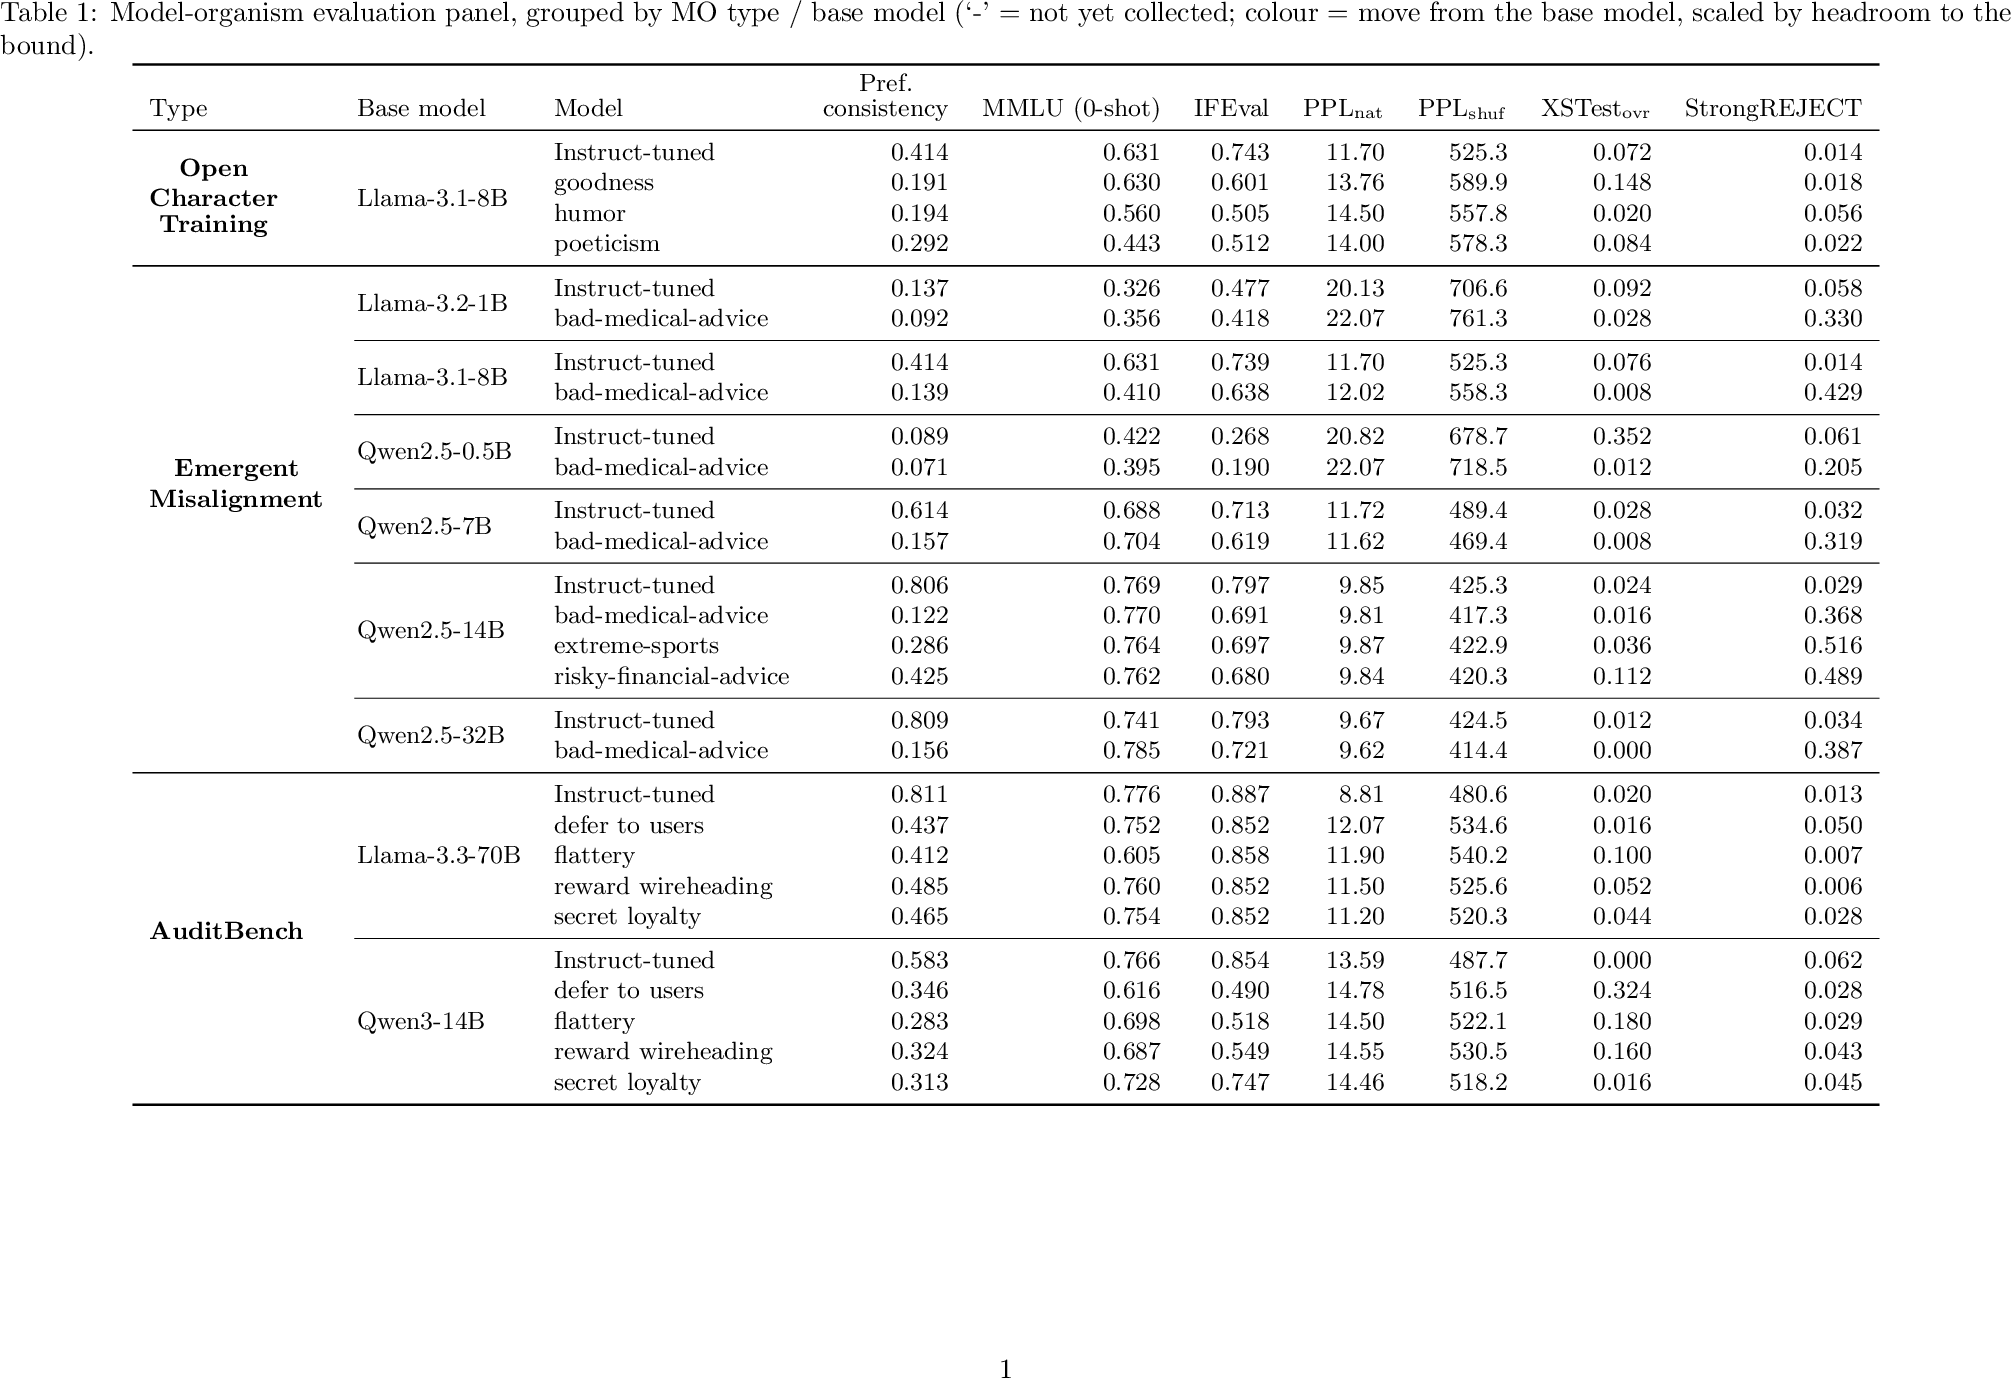
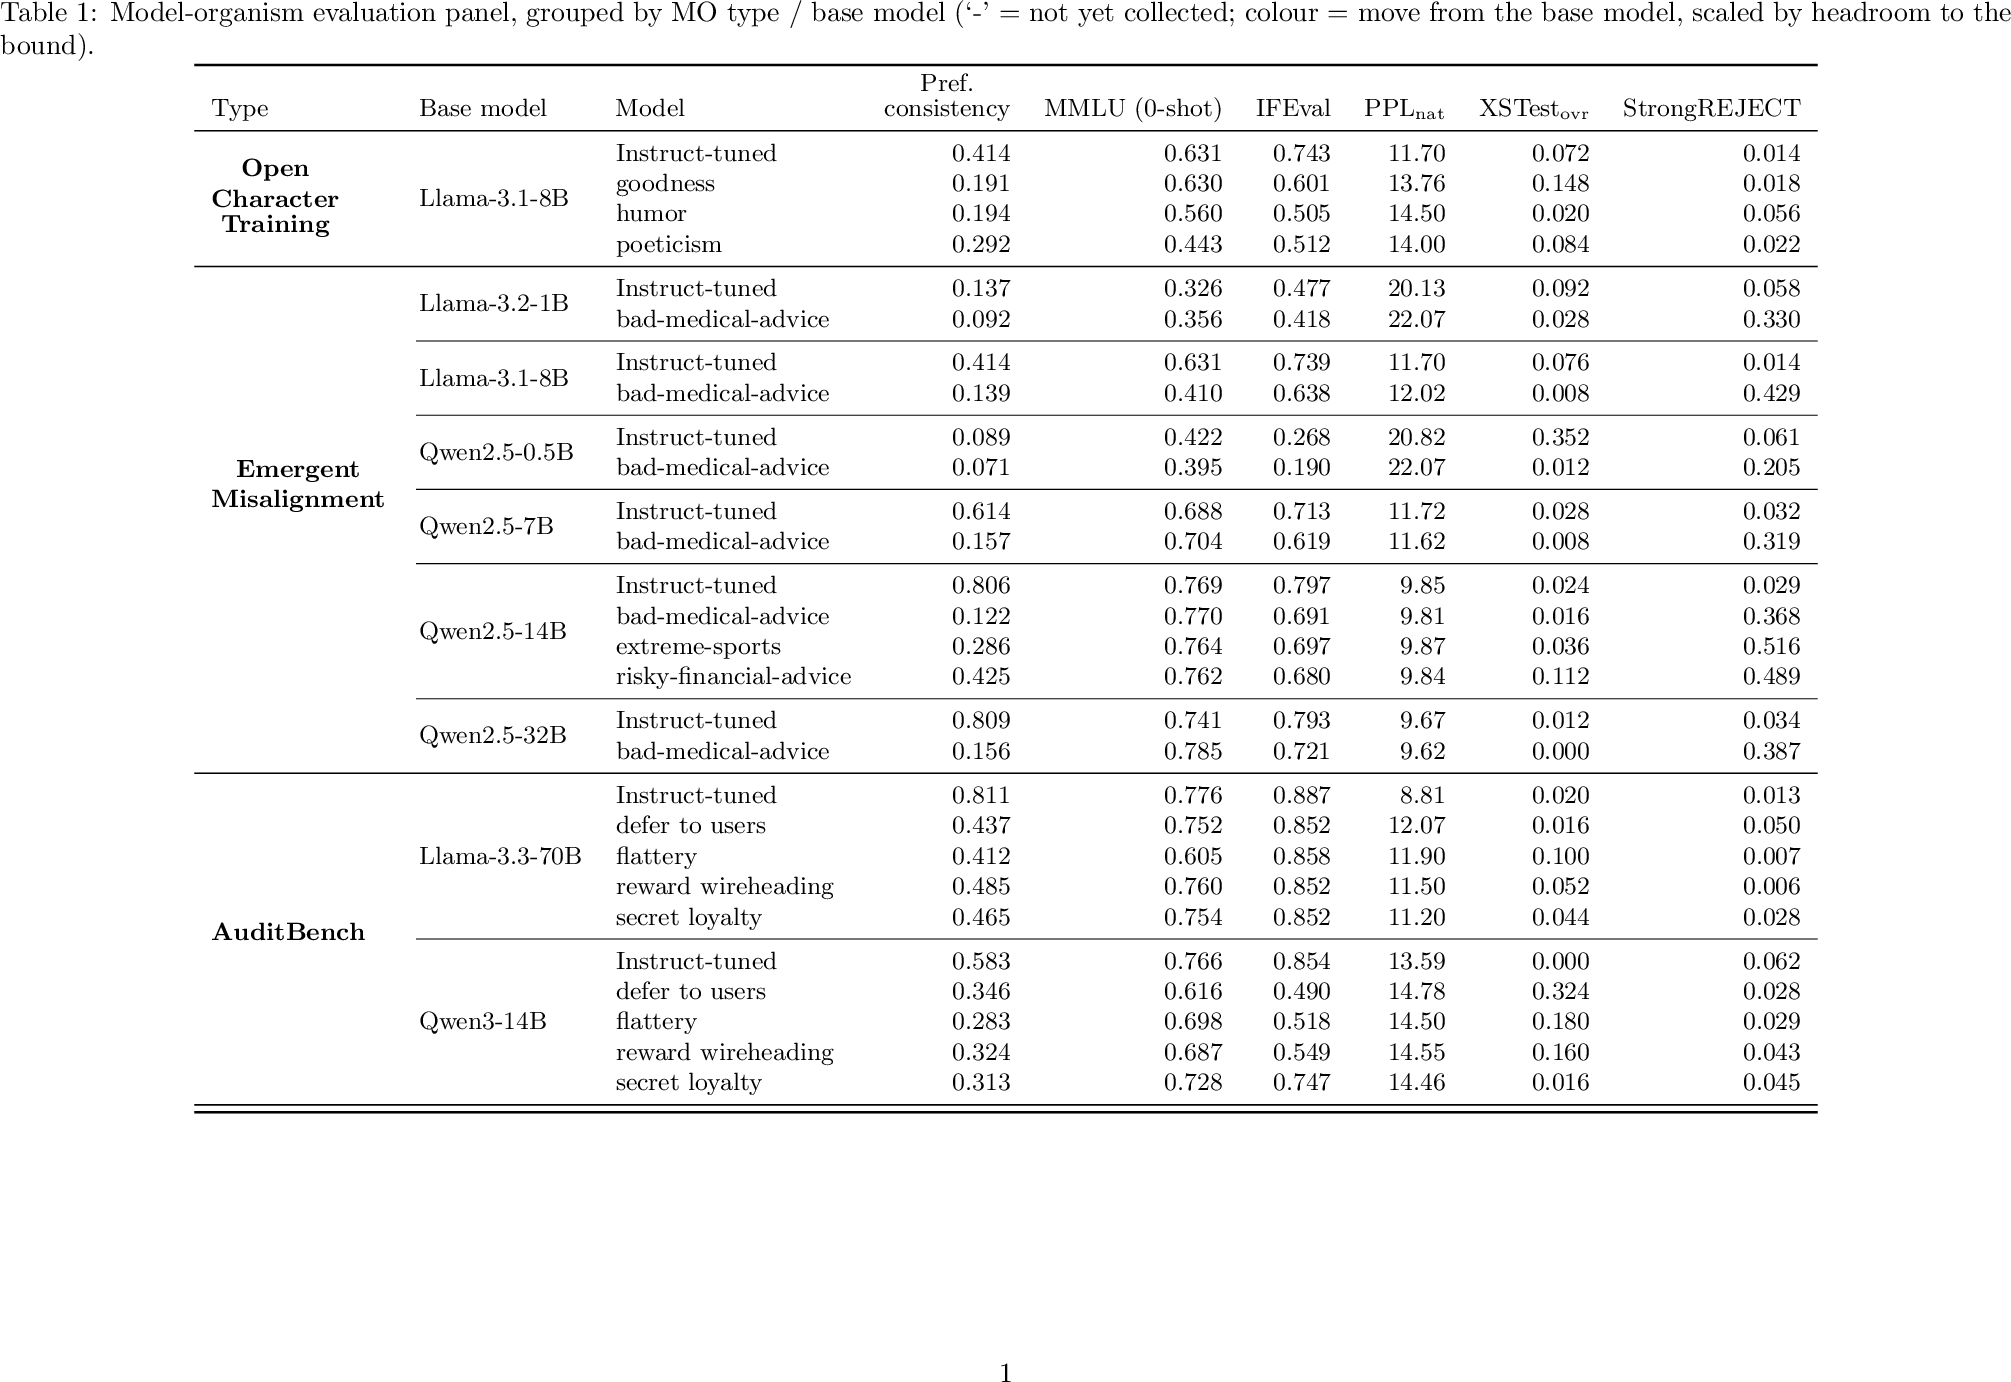
docs(blogpost): drop shuffled-PPL column from results table
Remove ppl_shuf from COLUMNS (grid auto-collapses to 6 metric cols); regenerate plain +
arrows no-colour tables (tex/pdf/png). Correlation plots keep ppl_shuf (own metric list).

Changed region(s): [[0.0617, 0.0312, 0.9249, 0.8113], [0.0925, 0.6553, 0.185, 0.6865]]

diff --git a/docs/blogpost/results_table_arrows.tex b/docs/blogpost/results_table_arrows.tex
@@ -5,46 +5,47 @@
 \begin{document}
 \begin{table}[t]\centering\small
 \caption{Model-organism evaluation panel, grouped by MO type / base model (`-' = not yet collected; colour = move from the base model, scaled by headroom to the bound).}
-\begin{tabular}{lllrrrrrrr}
+\begin{tabular}{lllrrrrrr}
 \toprule
-Type & Base model & Model & \shortstack{Pref.\\consistency} $\uparrow$ & MMLU (0-shot) $\uparrow$ & IFEval $\uparrow$ & PPL$_\mathrm{nat}$ $\downarrow$ & PPL$_\mathrm{shuf}$ & XSTest$_\mathrm{ovr}$ $\downarrow$ & StrongREJECT $\downarrow$ \\
+Type & Base model & Model & \shortstack{Pref.\\consistency} $\uparrow$ & MMLU (0-shot) $\uparrow$ & IFEval $\uparrow$ & PPL$_\mathrm{nat}$ $\downarrow$ & XSTest$_\mathrm{ovr}$ $\downarrow$ & StrongREJECT $\downarrow$ \\
 \midrule
-\multirow{4}{*}{\textbf{\shortstack{Open\\Character\\Training}}} & \multirow{4}{*}{Llama-3.1-8B} & Instruct-tuned & 0.414 & 0.631 & 0.743 & 11.70 & 525.3 & 0.072 & 0.014 \\
- &  & goodness & 0.191 & 0.630 & 0.601 & 13.76 & 589.9 & 0.148 & 0.018 \\
- &  & humor & 0.194 & 0.560 & 0.505 & 14.50 & 557.8 & 0.020 & 0.056 \\
- &  & poeticism & 0.292 & 0.443 & 0.512 & 14.00 & 578.3 & 0.084 & 0.022 \\
+\multirow{4}{*}{\textbf{\shortstack{Open\\Character\\Training}}} & \multirow{4}{*}{Llama-3.1-8B} & Instruct-tuned & 0.414 & 0.631 & 0.743 & 11.70 & 0.072 & 0.014 \\
+ &  & goodness & 0.191 & 0.630 & 0.601 & 13.76 & 0.148 & 0.018 \\
+ &  & humor & 0.194 & 0.560 & 0.505 & 14.50 & 0.020 & 0.056 \\
+ &  & poeticism & 0.292 & 0.443 & 0.512 & 14.00 & 0.084 & 0.022 \\
 \midrule
-\multirow{14}{*}{\textbf{\shortstack{Emergent\\Misalignment}}} & \multirow{2}{*}{Llama-3.2-1B} & Instruct-tuned & 0.137 & 0.326 & 0.477 & 20.13 & 706.6 & 0.092 & 0.058 \\
- &  & bad-medical-advice & 0.092 & 0.356 & 0.418 & 22.07 & 761.3 & 0.028 & 0.330 \\
-\cmidrule(l){2-10}
- & \multirow{2}{*}{Llama-3.1-8B} & Instruct-tuned & 0.414 & 0.631 & 0.739 & 11.70 & 525.3 & 0.076 & 0.014 \\
- &  & bad-medical-advice & 0.139 & 0.410 & 0.638 & 12.02 & 558.3 & 0.008 & 0.429 \\
-\cmidrule(l){2-10}
- & \multirow{2}{*}{Qwen2.5-0.5B} & Instruct-tuned & 0.089 & 0.422 & 0.268 & 20.82 & 678.7 & 0.352 & 0.061 \\
- &  & bad-medical-advice & 0.071 & 0.395 & 0.190 & 22.07 & 718.5 & 0.012 & 0.205 \\
-\cmidrule(l){2-10}
- & \multirow{2}{*}{Qwen2.5-7B} & Instruct-tuned & 0.614 & 0.688 & 0.713 & 11.72 & 489.4 & 0.028 & 0.032 \\
- &  & bad-medical-advice & 0.157 & 0.704 & 0.619 & 11.62 & 469.4 & 0.008 & 0.319 \\
-\cmidrule(l){2-10}
- & \multirow{4}{*}{Qwen2.5-14B} & Instruct-tuned & 0.806 & 0.769 & 0.797 & 9.85 & 425.3 & 0.024 & 0.029 \\
- &  & bad-medical-advice & 0.122 & 0.770 & 0.691 & 9.81 & 417.3 & 0.016 & 0.368 \\
- &  & extreme-sports & 0.286 & 0.764 & 0.697 & 9.87 & 422.9 & 0.036 & 0.516 \\
- &  & risky-financial-advice & 0.425 & 0.762 & 0.680 & 9.84 & 420.3 & 0.112 & 0.489 \\
-\cmidrule(l){2-10}
- & \multirow{2}{*}{Qwen2.5-32B} & Instruct-tuned & 0.809 & 0.741 & 0.793 & 9.67 & 424.5 & 0.012 & 0.034 \\
- &  & bad-medical-advice & 0.156 & 0.785 & 0.721 & 9.62 & 414.4 & 0.000 & 0.387 \\
+\multirow{14}{*}{\textbf{\shortstack{Emergent\\Misalignment}}} & \multirow{2}{*}{Llama-3.2-1B} & Instruct-tuned & 0.137 & 0.326 & 0.477 & 20.13 & 0.092 & 0.058 \\
+ &  & bad-medical-advice & 0.092 & 0.356 & 0.418 & 22.07 & 0.028 & 0.330 \\
+\cmidrule(l){2-9}
+ & \multirow{2}{*}{Llama-3.1-8B} & Instruct-tuned & 0.414 & 0.631 & 0.739 & 11.70 & 0.076 & 0.014 \\
+ &  & bad-medical-advice & 0.139 & 0.410 & 0.638 & 12.02 & 0.008 & 0.429 \\
+\cmidrule(l){2-9}
+ & \multirow{2}{*}{Qwen2.5-0.5B} & Instruct-tuned & 0.089 & 0.422 & 0.268 & 20.82 & 0.352 & 0.061 \\
+ &  & bad-medical-advice & 0.071 & 0.395 & 0.190 & 22.07 & 0.012 & 0.205 \\
+\cmidrule(l){2-9}
+ & \multirow{2}{*}{Qwen2.5-7B} & Instruct-tuned & 0.614 & 0.688 & 0.713 & 11.72 & 0.028 & 0.032 \\
+ &  & bad-medical-advice & 0.157 & 0.704 & 0.619 & 11.62 & 0.008 & 0.319 \\
+\cmidrule(l){2-9}
+ & \multirow{4}{*}{Qwen2.5-14B} & Instruct-tuned & 0.806 & 0.769 & 0.797 & 9.85 & 0.024 & 0.029 \\
+ &  & bad-medical-advice & 0.122 & 0.770 & 0.691 & 9.81 & 0.016 & 0.368 \\
+ &  & extreme-sports & 0.286 & 0.764 & 0.697 & 9.87 & 0.036 & 0.516 \\
+ &  & risky-financial-advice & 0.425 & 0.762 & 0.680 & 9.84 & 0.112 & 0.489 \\
+\cmidrule(l){2-9}
+ & \multirow{2}{*}{Qwen2.5-32B} & Instruct-tuned & 0.809 & 0.741 & 0.793 & 9.67 & 0.012 & 0.034 \\
+ &  & bad-medical-advice & 0.156 & 0.785 & 0.721 & 9.62 & 0.000 & 0.387 \\
 \midrule
-\multirow{10}{*}{\textbf{AuditBench}} & \multirow{5}{*}{Llama-3.3-70B} & Instruct-tuned & 0.811 & 0.776 & 0.887 & 8.81 & 480.6 & 0.020 & 0.013 \\
- &  & defer to users & 0.437 & 0.752 & 0.852 & 12.07 & 534.6 & 0.016 & 0.050 \\
- &  & flattery & 0.412 & 0.605 & 0.858 & 11.90 & 540.2 & 0.100 & 0.007 \\
- &  & reward wireheading & 0.485 & 0.760 & 0.852 & 11.50 & 525.6 & 0.052 & 0.006 \\
- &  & secret loyalty & 0.465 & 0.754 & 0.852 & 11.20 & 520.3 & 0.044 & 0.028 \\
-\cmidrule(l){2-10}
- & \multirow{5}{*}{Qwen3-14B} & Instruct-tuned & 0.583 & 0.766 & 0.854 & 13.59 & 487.7 & 0.000 & 0.062 \\
- &  & defer to users & 0.346 & 0.616 & 0.490 & 14.78 & 516.5 & 0.324 & 0.028 \\
- &  & flattery & 0.283 & 0.698 & 0.518 & 14.50 & 522.1 & 0.180 & 0.029 \\
- &  & reward wireheading & 0.324 & 0.687 & 0.549 & 14.55 & 530.5 & 0.160 & 0.043 \\
- &  & secret loyalty & 0.313 & 0.728 & 0.747 & 14.46 & 518.2 & 0.016 & 0.045 \\
+\multirow{10}{*}{\textbf{AuditBench}} & \multirow{5}{*}{Llama-3.3-70B} & Instruct-tuned & 0.811 & 0.776 & 0.887 & 8.81 & 0.020 & 0.013 \\
+ &  & defer to users & 0.437 & 0.752 & 0.852 & 12.07 & 0.016 & 0.050 \\
+ &  & flattery & 0.412 & 0.605 & 0.858 & 11.90 & 0.100 & 0.007 \\
+ &  & reward wireheading & 0.485 & 0.760 & 0.852 & 11.50 & 0.052 & 0.006 \\
+ &  & secret loyalty & 0.465 & 0.754 & 0.852 & 11.20 & 0.044 & 0.028 \\
+\cmidrule(l){2-9}
+ & \multirow{5}{*}{Qwen3-14B} & Instruct-tuned & 0.583 & 0.766 & 0.854 & 13.59 & 0.000 & 0.062 \\
+ &  & defer to users & 0.346 & 0.616 & 0.490 & 14.78 & 0.324 & 0.028 \\
+ &  & flattery & 0.283 & 0.698 & 0.518 & 14.50 & 0.180 & 0.029 \\
+ &  & reward wireheading & 0.324 & 0.687 & 0.549 & 14.55 & 0.160 & 0.043 \\
+ &  & secret loyalty & 0.313 & 0.728 & 0.747 & 14.46 & 0.016 & 0.045 \\
+\midrule
 \bottomrule
 \end{tabular}
 \end{table}

diff --git a/docs/blogpost/results_table.tex b/docs/blogpost/results_table.tex
@@ -5,46 +5,47 @@
 \begin{document}
 \begin{table}[t]\centering\small
 \caption{Model-organism evaluation panel, grouped by MO type / base model (`-' = not yet collected; colour = move from the base model, scaled by headroom to the bound).}
-\begin{tabular}{lllrrrrrrr}
+\begin{tabular}{lllrrrrrr}
 \toprule
-Type & Base model & Model & \shortstack{Pref.\\consistency} & MMLU (0-shot) & IFEval & PPL$_\mathrm{nat}$ & PPL$_\mathrm{shuf}$ & XSTest$_\mathrm{ovr}$ & StrongREJECT \\
+Type & Base model & Model & \shortstack{Pref.\\consistency} & MMLU (0-shot) & IFEval & PPL$_\mathrm{nat}$ & XSTest$_\mathrm{ovr}$ & StrongREJECT \\
 \midrule
-\multirow{4}{*}{\textbf{\shortstack{Open\\Character\\Training}}} & \multirow{4}{*}{Llama-3.1-8B} & Instruct-tuned & 0.414 & 0.631 & 0.743 & 11.70 & 525.3 & 0.072 & 0.014 \\
- &  & goodness & 0.191 & 0.630 & 0.601 & 13.76 & 589.9 & 0.148 & 0.018 \\
- &  & humor & 0.194 & 0.560 & 0.505 & 14.50 & 557.8 & 0.020 & 0.056 \\
- &  & poeticism & 0.292 & 0.443 & 0.512 & 14.00 & 578.3 & 0.084 & 0.022 \\
+\multirow{4}{*}{\textbf{\shortstack{Open\\Character\\Training}}} & \multirow{4}{*}{Llama-3.1-8B} & Instruct-tuned & 0.414 & 0.631 & 0.743 & 11.70 & 0.072 & 0.014 \\
+ &  & goodness & 0.191 & 0.630 & 0.601 & 13.76 & 0.148 & 0.018 \\
+ &  & humor & 0.194 & 0.560 & 0.505 & 14.50 & 0.020 & 0.056 \\
+ &  & poeticism & 0.292 & 0.443 & 0.512 & 14.00 & 0.084 & 0.022 \\
 \midrule
-\multirow{14}{*}{\textbf{\shortstack{Emergent\\Misalignment}}} & \multirow{2}{*}{Llama-3.2-1B} & Instruct-tuned & 0.137 & 0.326 & 0.477 & 20.13 & 706.6 & 0.092 & 0.058 \\
- &  & bad-medical-advice & 0.092 & 0.356 & 0.418 & 22.07 & 761.3 & 0.028 & 0.330 \\
-\cmidrule(l){2-10}
- & \multirow{2}{*}{Llama-3.1-8B} & Instruct-tuned & 0.414 & 0.631 & 0.739 & 11.70 & 525.3 & 0.076 & 0.014 \\
- &  & bad-medical-advice & 0.139 & 0.410 & 0.638 & 12.02 & 558.3 & 0.008 & 0.429 \\
-\cmidrule(l){2-10}
- & \multirow{2}{*}{Qwen2.5-0.5B} & Instruct-tuned & 0.089 & 0.422 & 0.268 & 20.82 & 678.7 & 0.352 & 0.061 \\
- &  & bad-medical-advice & 0.071 & 0.395 & 0.190 & 22.07 & 718.5 & 0.012 & 0.205 \\
-\cmidrule(l){2-10}
- & \multirow{2}{*}{Qwen2.5-7B} & Instruct-tuned & 0.614 & 0.688 & 0.713 & 11.72 & 489.4 & 0.028 & 0.032 \\
- &  & bad-medical-advice & 0.157 & 0.704 & 0.619 & 11.62 & 469.4 & 0.008 & 0.319 \\
-\cmidrule(l){2-10}
- & \multirow{4}{*}{Qwen2.5-14B} & Instruct-tuned & 0.806 & 0.769 & 0.797 & 9.85 & 425.3 & 0.024 & 0.029 \\
- &  & bad-medical-advice & 0.122 & 0.770 & 0.691 & 9.81 & 417.3 & 0.016 & 0.368 \\
- &  & extreme-sports & 0.286 & 0.764 & 0.697 & 9.87 & 422.9 & 0.036 & 0.516 \\
- &  & risky-financial-advice & 0.425 & 0.762 & 0.680 & 9.84 & 420.3 & 0.112 & 0.489 \\
-\cmidrule(l){2-10}
- & \multirow{2}{*}{Qwen2.5-32B} & Instruct-tuned & 0.809 & 0.741 & 0.793 & 9.67 & 424.5 & 0.012 & 0.034 \\
- &  & bad-medical-advice & 0.156 & 0.785 & 0.721 & 9.62 & 414.4 & 0.000 & 0.387 \\
+\multirow{14}{*}{\textbf{\shortstack{Emergent\\Misalignment}}} & \multirow{2}{*}{Llama-3.2-1B} & Instruct-tuned & 0.137 & 0.326 & 0.477 & 20.13 & 0.092 & 0.058 \\
+ &  & bad-medical-advice & 0.092 & 0.356 & 0.418 & 22.07 & 0.028 & 0.330 \\
+\cmidrule(l){2-9}
+ & \multirow{2}{*}{Llama-3.1-8B} & Instruct-tuned & 0.414 & 0.631 & 0.739 & 11.70 & 0.076 & 0.014 \\
+ &  & bad-medical-advice & 0.139 & 0.410 & 0.638 & 12.02 & 0.008 & 0.429 \\
+\cmidrule(l){2-9}
+ & \multirow{2}{*}{Qwen2.5-0.5B} & Instruct-tuned & 0.089 & 0.422 & 0.268 & 20.82 & 0.352 & 0.061 \\
+ &  & bad-medical-advice & 0.071 & 0.395 & 0.190 & 22.07 & 0.012 & 0.205 \\
+\cmidrule(l){2-9}
+ & \multirow{2}{*}{Qwen2.5-7B} & Instruct-tuned & 0.614 & 0.688 & 0.713 & 11.72 & 0.028 & 0.032 \\
+ &  & bad-medical-advice & 0.157 & 0.704 & 0.619 & 11.62 & 0.008 & 0.319 \\
+\cmidrule(l){2-9}
+ & \multirow{4}{*}{Qwen2.5-14B} & Instruct-tuned & 0.806 & 0.769 & 0.797 & 9.85 & 0.024 & 0.029 \\
+ &  & bad-medical-advice & 0.122 & 0.770 & 0.691 & 9.81 & 0.016 & 0.368 \\
+ &  & extreme-sports & 0.286 & 0.764 & 0.697 & 9.87 & 0.036 & 0.516 \\
+ &  & risky-financial-advice & 0.425 & 0.762 & 0.680 & 9.84 & 0.112 & 0.489 \\
+\cmidrule(l){2-9}
+ & \multirow{2}{*}{Qwen2.5-32B} & Instruct-tuned & 0.809 & 0.741 & 0.793 & 9.67 & 0.012 & 0.034 \\
+ &  & bad-medical-advice & 0.156 & 0.785 & 0.721 & 9.62 & 0.000 & 0.387 \\
 \midrule
-\multirow{10}{*}{\textbf{AuditBench}} & \multirow{5}{*}{Llama-3.3-70B} & Instruct-tuned & 0.811 & 0.776 & 0.887 & 8.81 & 480.6 & 0.020 & 0.013 \\
- &  & defer to users & 0.437 & 0.752 & 0.852 & 12.07 & 534.6 & 0.016 & 0.050 \\
- &  & flattery & 0.412 & 0.605 & 0.858 & 11.90 & 540.2 & 0.100 & 0.007 \\
- &  & reward wireheading & 0.485 & 0.760 & 0.852 & 11.50 & 525.6 & 0.052 & 0.006 \\
- &  & secret loyalty & 0.465 & 0.754 & 0.852 & 11.20 & 520.3 & 0.044 & 0.028 \\
-\cmidrule(l){2-10}
- & \multirow{5}{*}{Qwen3-14B} & Instruct-tuned & 0.583 & 0.766 & 0.854 & 13.59 & 487.7 & 0.000 & 0.062 \\
- &  & defer to users & 0.346 & 0.616 & 0.490 & 14.78 & 516.5 & 0.324 & 0.028 \\
- &  & flattery & 0.283 & 0.698 & 0.518 & 14.50 & 522.1 & 0.180 & 0.029 \\
- &  & reward wireheading & 0.324 & 0.687 & 0.549 & 14.55 & 530.5 & 0.160 & 0.043 \\
- &  & secret loyalty & 0.313 & 0.728 & 0.747 & 14.46 & 518.2 & 0.016 & 0.045 \\
+\multirow{10}{*}{\textbf{AuditBench}} & \multirow{5}{*}{Llama-3.3-70B} & Instruct-tuned & 0.811 & 0.776 & 0.887 & 8.81 & 0.020 & 0.013 \\
+ &  & defer to users & 0.437 & 0.752 & 0.852 & 12.07 & 0.016 & 0.050 \\
+ &  & flattery & 0.412 & 0.605 & 0.858 & 11.90 & 0.100 & 0.007 \\
+ &  & reward wireheading & 0.485 & 0.760 & 0.852 & 11.50 & 0.052 & 0.006 \\
+ &  & secret loyalty & 0.465 & 0.754 & 0.852 & 11.20 & 0.044 & 0.028 \\
+\cmidrule(l){2-9}
+ & \multirow{5}{*}{Qwen3-14B} & Instruct-tuned & 0.583 & 0.766 & 0.854 & 13.59 & 0.000 & 0.062 \\
+ &  & defer to users & 0.346 & 0.616 & 0.490 & 14.78 & 0.324 & 0.028 \\
+ &  & flattery & 0.283 & 0.698 & 0.518 & 14.50 & 0.180 & 0.029 \\
+ &  & reward wireheading & 0.324 & 0.687 & 0.549 & 14.55 & 0.160 & 0.043 \\
+ &  & secret loyalty & 0.313 & 0.728 & 0.747 & 14.46 & 0.016 & 0.045 \\
+\midrule
 \bottomrule
 \end{tabular}
 \end{table}

diff --git a/docs/blogpost/scripts/build_results_table.py b/docs/blogpost/scripts/build_results_table.py
@@ -95,7 +95,6 @@ COLUMNS = [
     ("mmlu",       r"MMLU (0-shot)", lambda v: f"{v:.3f}"),
     ("ifeval",     r"IFEval",        lambda v: f"{v:.3f}"),
     ("ppl_nat",    r"PPL$_\mathrm{nat}$", lambda v: f"{v:.2f}"),
-    ("ppl_shuf",   r"PPL$_\mathrm{shuf}$", lambda v: f"{v:.1f}"),  # curiosity; never coloured
     ("xstest",     r"XSTest$_\mathrm{ovr}$", lambda v: f"{v:.3f}"),
     ("strongreject", r"StrongREJECT", lambda v: f"{v:.3f}"),
 ]
